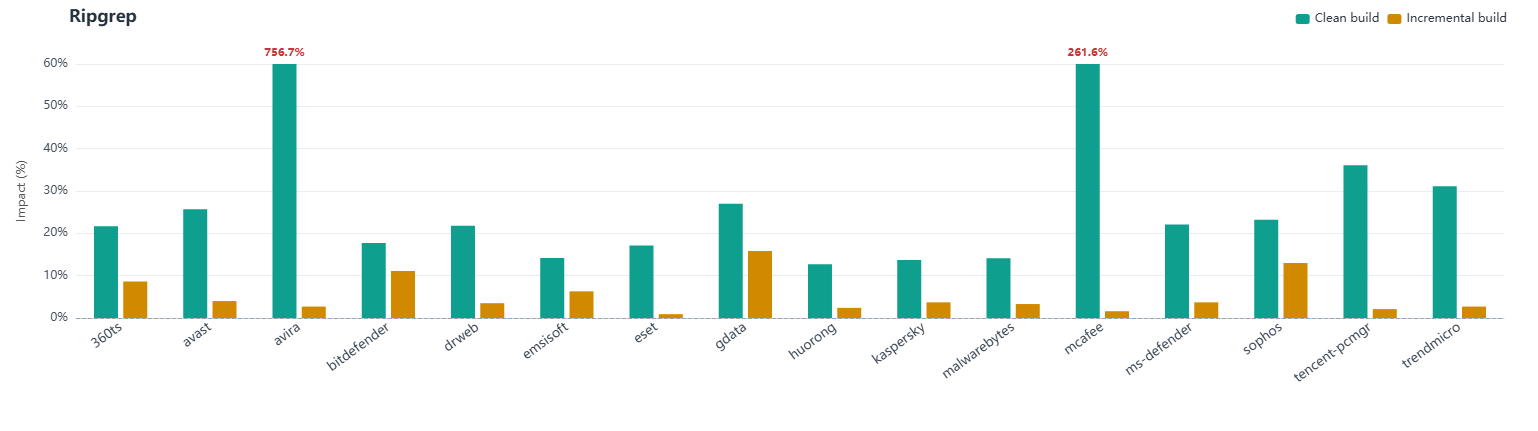
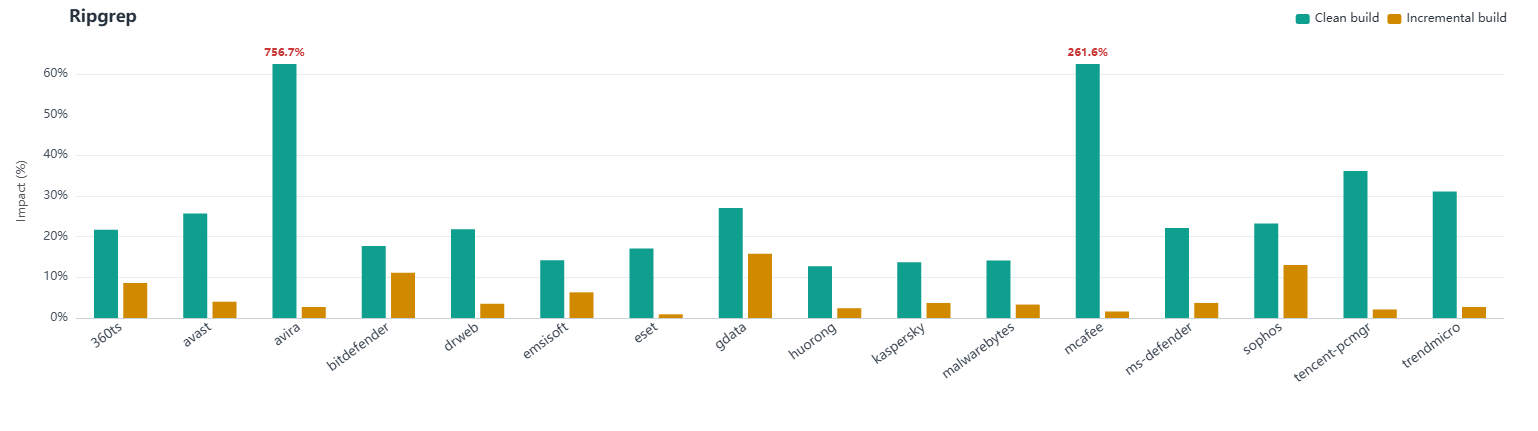
feat: enhance workload chart with overflow handling and updated axis configuration

diff --git a/visualizations/src/charts/CompilationWorkloadsChart.tsx b/visualizations/src/charts/CompilationWorkloadsChart.tsx
@@ -22,6 +22,7 @@ type BarPoint = {
 
 const cleanColor = '#0f9f8f'
 const incrementalColor = '#d18a00'
+const overflowRatio = 0.04
 
 const chartConfig = {
   ripgrep: {
@@ -97,9 +98,11 @@ function WorkloadChart({
 function buildWorkloadOption(rows: CompilationWorkloadRow[], workload: WorkloadKey): EChartsOption {
   const config = chartConfig[workload]
   const avNames = rows.map((row) => row.avName)
-  const cleanPoints = rows.map((row) => toBarPoint(row[workload].clean, config.axisMax))
-  const incrementalPoints = rows.map((row) => toBarPoint(row[workload].incremental, config.axisMax))
-
+  const chartMax = config.axisMax * (1 + overflowRatio)
+  const cleanPoints = rows.map((row) => toBarPoint(row[workload].clean, config.axisMax, chartMax))
+  const incrementalPoints = rows.map((row) =>
+    toBarPoint(row[workload].incremental, config.axisMax, chartMax),
+  )
   return {
     animation: false,
     backgroundColor: '#ffffff',
@@ -121,6 +124,7 @@ function buildWorkloadOption(rows: CompilationWorkloadRow[], workload: WorkloadK
       textStyle: {
         color: '#303841',
       },
+      data: ['Clean build', 'Incremental build'],
     },
     grid: {
       left: 76,
@@ -149,17 +153,31 @@ function buildWorkloadOption(rows: CompilationWorkloadRow[], workload: WorkloadK
     yAxis: {
       type: 'value',
       min: 0,
-      max: config.axisMax,
+      max: chartMax,
       splitNumber: workload === 'ripgrep' ? 7 : 5,
       name: 'Impact (%)',
       nameLocation: 'middle',
       nameGap: 48,
       axisLabel: {
         color: '#46515d',
-        formatter: '{value}%',
+        formatter: (value: number) => (value <= config.axisMax ? `${value}%` : ''),
       },
       splitLine: {
-        lineStyle: { color: '#e8edf2' },
+        show: true,
+        showMaxLine: false,
+        lineStyle: {
+          color:
+            workload === 'ripgrep'
+              ? [
+                  '#e8edf2',
+                  '#e8edf2',
+                  '#e8edf2',
+                  '#e8edf2',
+                  '#e8edf2',
+                  'rgba(232, 237, 242, 0)',
+                ]
+              : '#e8edf2',
+        },
       },
       axisLine: { show: false },
     },
@@ -200,17 +218,10 @@ function buildSeries(name: string, points: BarPoint[], color: string) {
     emphasis: {
       focus: 'series' as const,
     },
-    markLine: {
-      silent: true,
-      symbol: 'none',
-      lineStyle: { color: '#9aa4af', type: 'dashed' as const, width: 1 },
-      label: { show: false },
-      data: [{ yAxis: 0 }],
-    },
   }
 }
 
-function toBarPoint(metric: BuildMetric | null, cap: number): BarPoint {
+function toBarPoint(metric: BuildMetric | null, cap: number, overflowValue: number): BarPoint {
   if (!metric) {
     return { value: null }
   }
@@ -218,7 +229,7 @@ function toBarPoint(metric: BuildMetric | null, cap: number): BarPoint {
   const capped = metric.value > cap
   const displayValue = Math.max(0, metric.value)
   return {
-    value: capped ? cap : displayValue,
+    value: capped ? overflowValue : displayValue,
     actualValue: metric.value,
     capped,
     status: metric.status,
